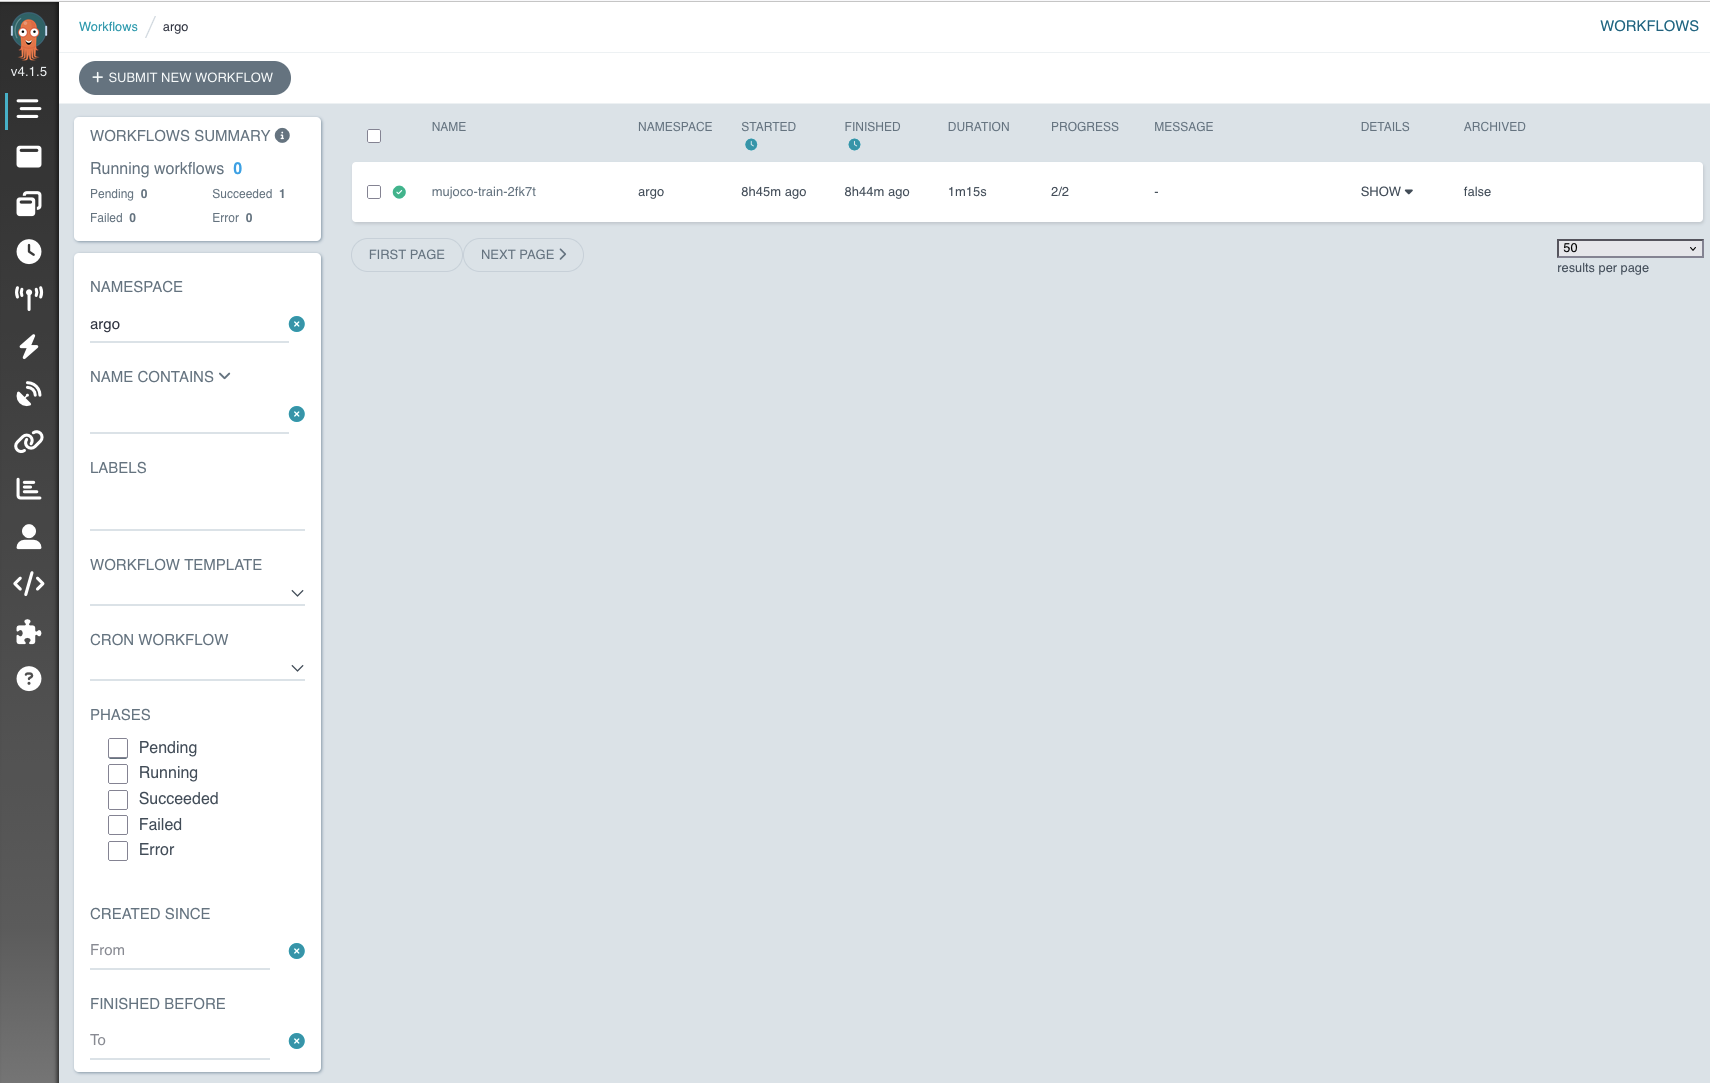
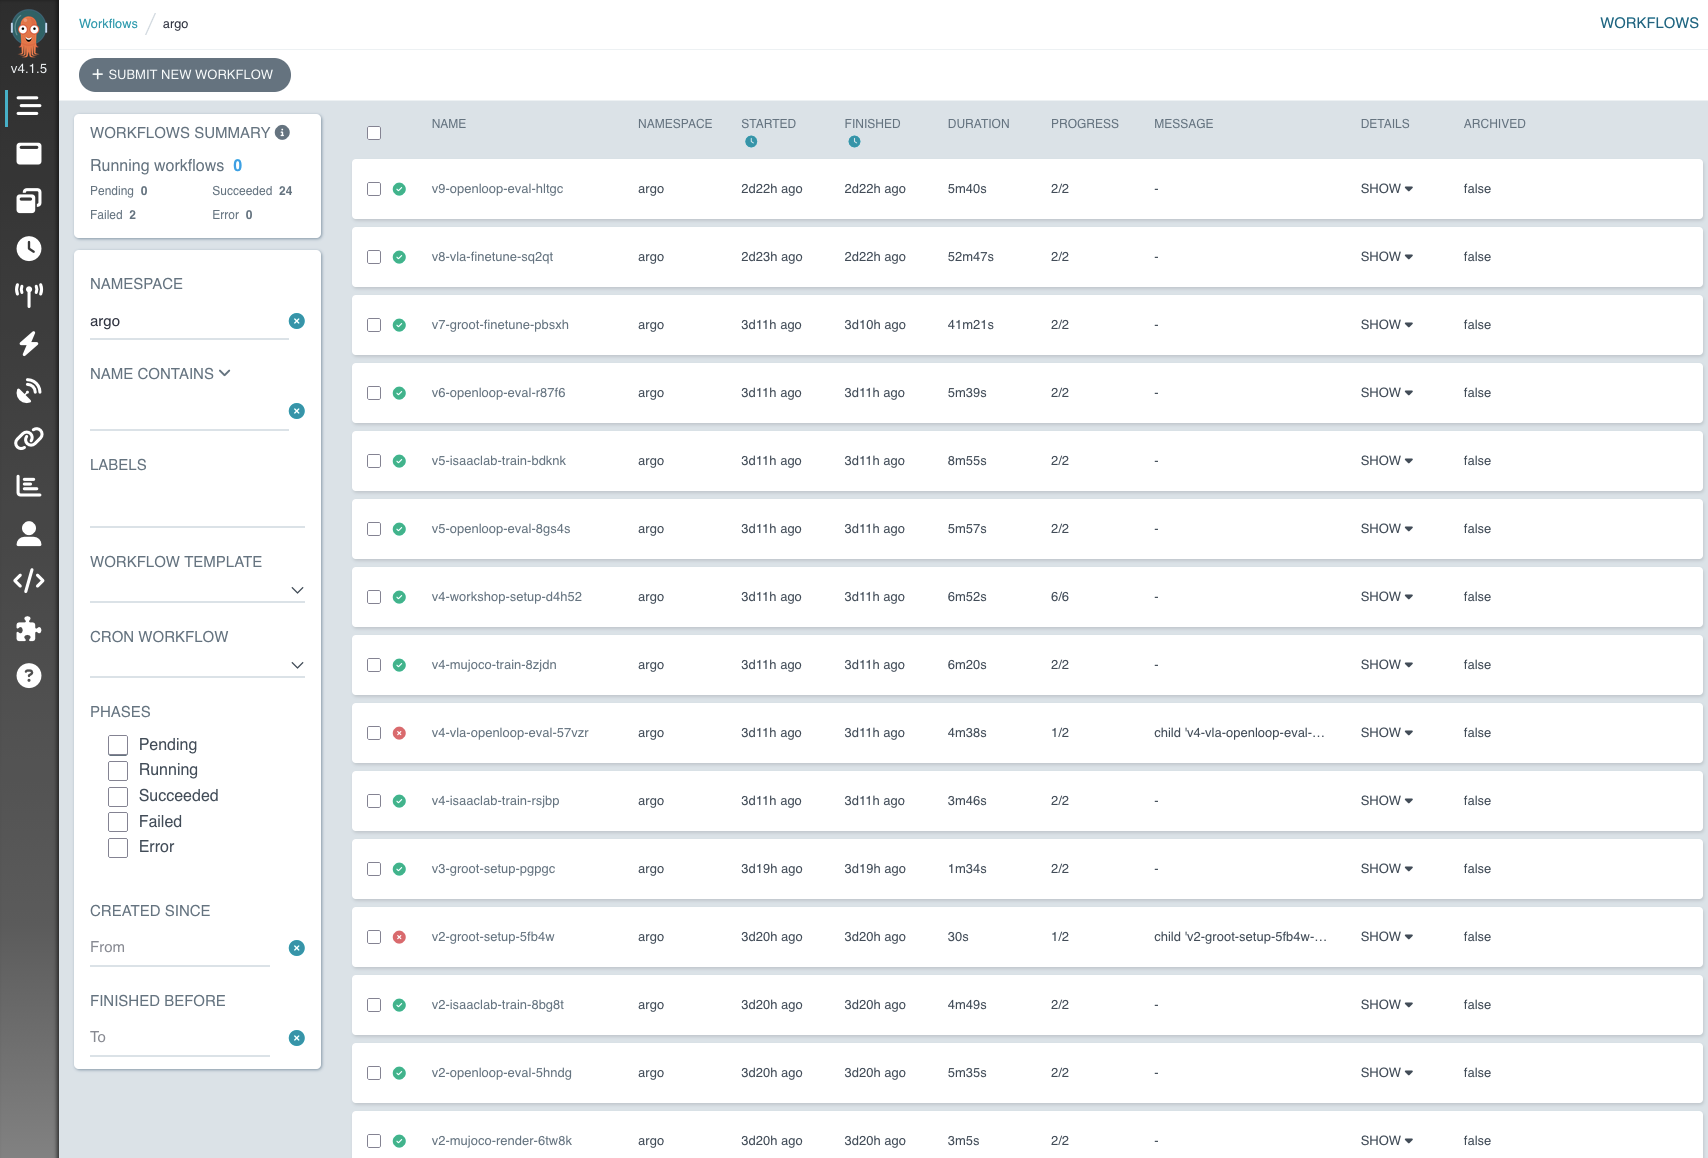
hyperpod: reshoot the UI screenshots against a cluster that has run the pipeline
Every screenshot was taken before the VLA path existed, so they showed what the
stack looks like with nothing in it: a Grafana console reading "No data" in
every panel, one Argo Workflow, two MLflow experiments, and an RL smoke test
whose only artifact was model_199.pt. A reader could not tell an empty install
from a broken one.

The new captures come from a cluster that has run the loop end to end. The
console shows Latest gate decision in red, which is the point of the gate being
on the landing page: a rejected checkpoint is visible without opening MLflow.
The run overview shows Source as mlflow_run_dir.py rather than the training
script, and the Artifacts tab shows checkpoint-60 with its safetensors shards
sitting inside the run -- the two things the previous commits changed and that
no screenshot could previously show.

Fixes three caption claims while reshooting. The WorkflowTemplate count was
"five" in English and "6개" in Korean and both were wrong; there are nine. The
Artifacts caption placed the checkpoints under mlflow-artifacts/, but
vla-finetune is rooted at checkpoints/vla/mlflow so FSx DRA exports the same
bytes. And the metrics caption claimed the TensorBoard curves were the same
three scalars from the same run, which stopped being true once the other
screenshots moved to a GR00T run.

mlflow-run-metrics.png is unchanged -- the new capture set has no equivalent
frame -- so its caption now says which run family it belongs to instead of
[…]

diff --git a/hyperpod-training/README.md b/hyperpod-training/README.md
@@ -397,7 +397,7 @@ directly, which is the only view left when a run's MLflow logging failed or when
 tfevents but was never wired to MLflow (rsl_rl under Isaac Lab, for instance). If a run shows up in
 MLflow, read it there.
 
-Argo Workflows at `/argo` — job submission. `Workflow Templates` lists the five templates
+Argo Workflows at `/argo` — job submission. `Workflow Templates` lists the nine templates
 `install-job-portal.sh` generates from `k8s-templates`; each row carries the description of the
 manifest it renders, so a participant picks a template without reading YAML.
 
@@ -409,7 +409,9 @@ path calls, which is why a Job created here is byte-identical to one created fro
 ![Argo Workflows — WorkflowTemplate manifest](docs/img/argo-workflow-template-manifest.png)
 
 `Workflows` is the run list. A submitted Workflow appears here with its phase and duration; the
-summary panel on the left counts running, pending, succeeded, failed, and errored runs.
+summary panel on the left counts running, pending, succeeded, failed, and errored runs. A failed row
+reports `child '<pod>' failed` and stops at `1/2`, so the phase alone does not say which step broke —
+open the row or the `Logs` tab for that.
 
 ![Argo Workflows — Workflow list](docs/img/argo-workflow-list.png)
 
@@ -426,35 +428,53 @@ is shipping them to Loki.
 
 Grafana at `/` — cluster health, and the entry point. This is the
 `HyperPod Physical AI — Training Console` landing dashboard that `install-unified-dashboard.sh`
-provisions: links to the other UIs across the top, then node, GPU, and Kueue panels plus a few
-MLflow run panels read through the Postgres datasource. Use it to answer "is the cluster healthy and
-is my job scheduled", not to read training curves.
+provisions: four numbered links to the other UIs across the top, then node, GPU, and Kueue stats
+alongside MLflow panels read through the Postgres datasource. `Latest gate decision` reads the
+`gate_decision` param of the newest gate run, so a red `BLOCK` on the landing page is the first thing
+a participant sees — the point of the gate is that a rejected checkpoint is visible without opening
+MLflow. Below
+the stats are the GR00T loss and learning-rate curves and the open-loop MSE panels. Use this to
+answer "is the cluster healthy, is my job scheduled, and did the last checkpoint pass".
 
 ![Grafana — Training Console](docs/img/grafana-training-console.png)
 
-MLflow at `/mlflow` — the place to read training metrics. Each training namespace writes into its own
-experiment.
+MLflow at `/mlflow` — the place to read training metrics. Each path writes into its own experiment:
+`vla-finetune` for GR00T runs, `vla-eval` for the open-loop and gate runs, `isaaclab-rl` for RL.
+`install-mlflow-selfhosted.sh` creates all three at install time and grants `trainer` write access,
+so a run never fails because `admin` happened to open the experiment first.
 
 ![MLflow — experiment list](docs/img/mlflow-experiment-list.png)
 
 A run's `Overview` tab holds the final metric values and the hyperparameters the template passed in,
-which is what makes two runs comparable after the fact.
+which is what makes two runs comparable after the fact. `Source` reads `mlflow_run_dir.py` rather
+than the training script, because the run is created before training starts so the checkpoints can be
+written inside it. The tags carry `checkpoint_size_gib` and the `/fsx` path, and
+`register_groot_model.py` has attached a `groot-so101-place-orange` model version to the run.
 
 ![MLflow — run overview](docs/img/mlflow-run-overview.png)
 
-`Model metrics` plots the same metrics per step, and `Auto-refresh` keeps the charts current while
-the Job is still running — which is why this, not TensorBoard, is the default place to watch a run.
+`Model metrics` plots those metrics per step, and `Auto-refresh` keeps the charts current while the
+Job is still running — which is why this, not TensorBoard, is the default place to watch a run. The
+run below is an RL one, where reward and episode length are the curves that matter; a GR00T run shows
+`loss`, `learning_rate`, and `grad_norm` instead.
 
 ![MLflow — run metrics](docs/img/mlflow-run-metrics.png)
 
-`Artifacts` holds the checkpoints written to the stack's S3 bucket under `mlflow-artifacts/`.
+`Artifacts` holds the checkpoint itself — `checkpoint-60/` plus the sharded `model-0000N-of-00002.safetensors`
+and `config.json` the Trainer wrote. These are not copies: `mlflow_run_dir.py` pointed the Trainer's
+output directory at this run's artifact path, so 9 GB of weights are browsable here without an upload
+step. The `vla-finetune` experiment is the one `install-mlflow-selfhosted.sh` roots at
+`checkpoints/vla/mlflow` instead of the default `mlflow-artifacts/`, which is why FSx DRA exports the
+same bytes to S3.
 
 ![MLflow — run artifacts](docs/img/mlflow-run-artifacts.png)
 
 TensorBoard at `/tensorboard` — the fallback. It reads the tfevents files under `/fsx` directly, with
-no dependency on the MLflow server or on logging calls in the training script. The curves below are
-the same three scalars as the MLflow screenshot above, from the same run, which is the point: reach
-for this only when a run is missing from MLflow.
+no dependency on the MLflow server or on logging calls in the training script. Every run directory
+under the mount appears in the left pane — the eight MuJoCo PPO runs here alongside VLA runs found at
+`vla/mlflow/<run-id>/artifacts/`, which is the same artifact directory the MLflow screenshots above
+show. There is no way to filter by params, which is why MLflow stays the default; reach for this when
+a run is missing from MLflow.
 
 ![TensorBoard — training curves](docs/img/tensorboard-training-curves.png)
 
